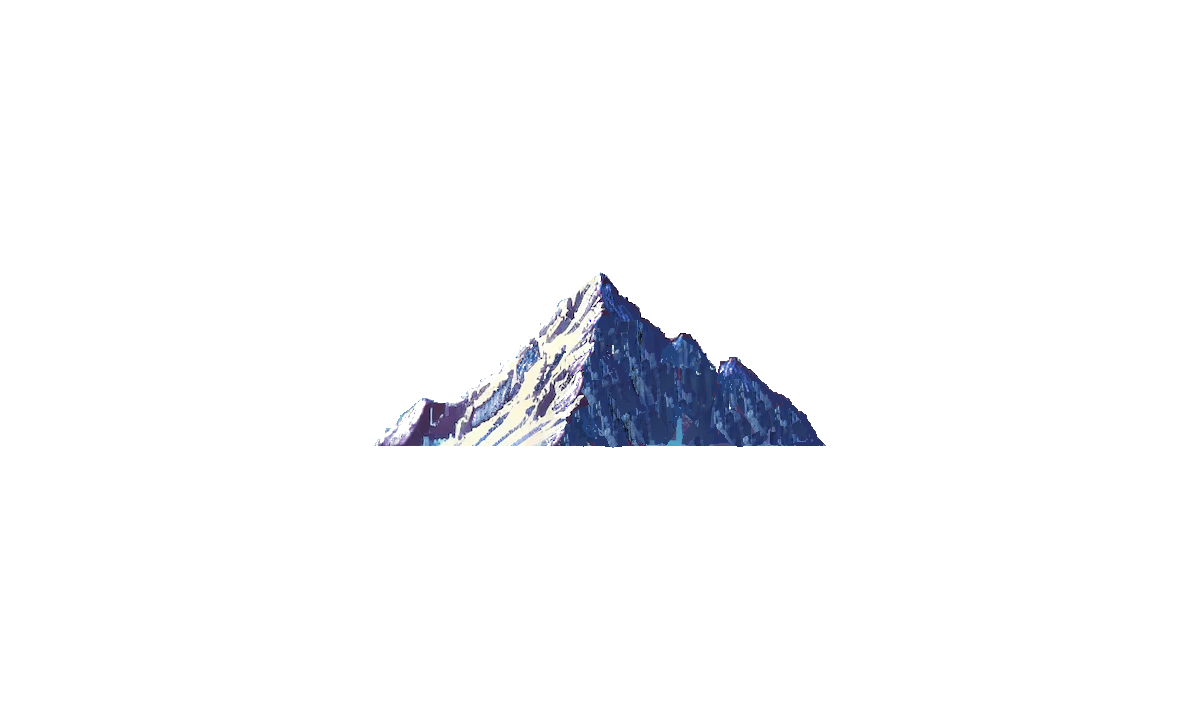
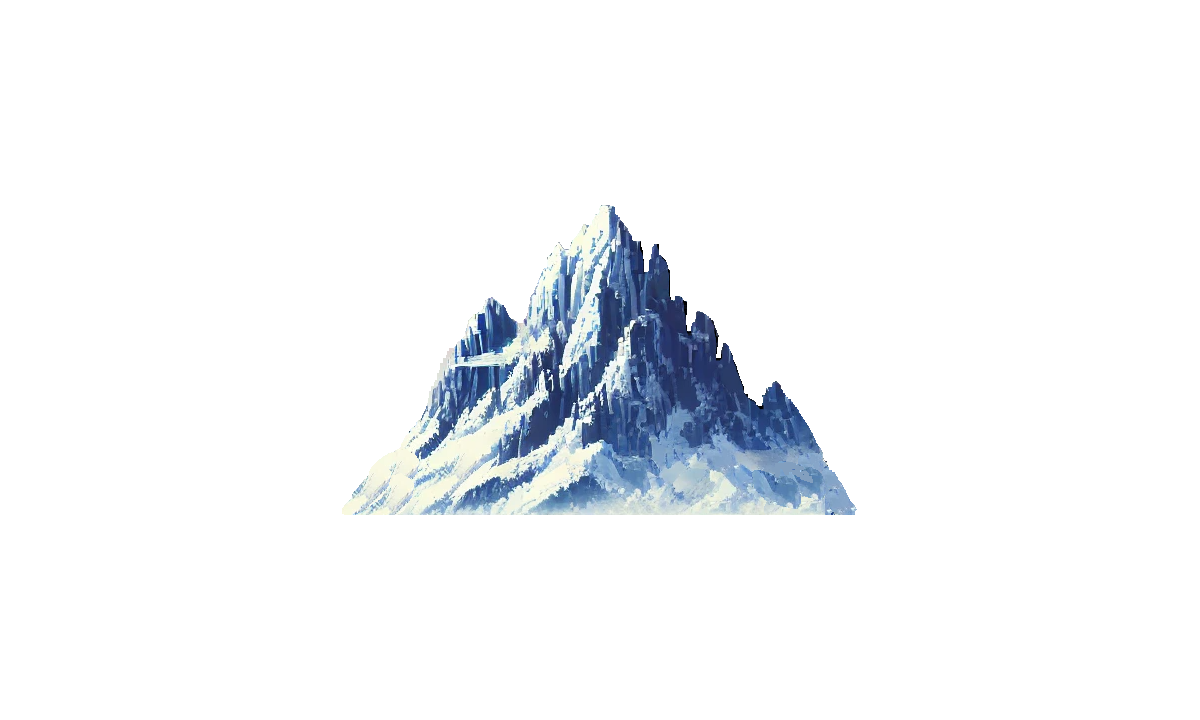
Coming back to e4124ab mechanic. Flickering still an issue. Zoom proportions fixed (a little bit)

Changed region(s): [[0.2775, 0.275, 0.7092, 0.7333]]

diff --git a/docs/Background.js b/docs/Background.js
@@ -14,20 +14,6 @@ function preloadBackgroundImages() {
     }
 }
 
-function smoothWrap(x, w, prev) {
-    // Standard wrap into [-w/2, w/2)
-    let wrapped = (((x + w/2) % w) + w) % w - w/2;
-    // Calculate difference relative to previous value
-    let diff = wrapped - prev;
-    // Adjust so that the jump is minimized:
-    if (diff > w/2) {
-        wrapped -= w;
-    } else if (diff < -w/2) {
-        wrapped += w;
-    }
-    return wrapped;
-}
-
 class Background {
     constructor() {
         this.bgImages = bgImages;
@@ -146,19 +132,19 @@ class Background {
             0.31, 0.3,
 
             //25 - 27
-            0.25, 0.24, 0.22,
+            0.13, 0.11, 0.09,
 
             //28-29
-            0.21, 0.2,
+            0.07, 0.06,
 
             //30-39
-            0.13, 0.12, 0.11, 0.1, 0.09, 0.08, 0.08, 0.07, 0.07, 0.06,
+            0.04, 0.038, 0.036, 0.034, 0.032, 0.03, 0.028, 0.026, 0.07, 0.023,
 
             //40-42
-            0.050, 0.047, 0.045,
+            0.02, 0.018, 0.016,
 
             //43-46
-            0.04, 0.04, 0.04, 0.04,
+            0.015, 0.015, 0.01, 0.01,
 
             //sky
             0
@@ -208,18 +194,18 @@ class Background {
             { x: 615, y: 420 }, // 40
             { x: 870, y: 415 }, // 41
             { x: 296, y: 470 }, // 42 ------ snow
-            { x: 600, y: 300 }, // 43
+            { x: 600, y: 360 }, // 43
             { x: 200, y: 350 }, // 44
-            { x: 870, y: 340 }, // 45
+            { x: 870, y: 280 }, // 45
             { x: 870, y: 450 }, // 46 ----snow
             { x: 870, y: 200 } // 47
         ];
 
-        this.speedZoomAdjustments = Array(this.bgImages.length).fill(-2);
+        this.speedZoomAdjustments = Array(this.bgImages.length).fill(1);
 
-        //--This is for continuos Tiling (Only for ocean and ground layers) --------
+        //-----This determines which layers tile continuously ----------
         this.alwaysTile = Array(this.bgImages.length).fill(false);
-        this.alwaysTile[0] = true;  // Layer 1 will always tile continuously.
+        this.alwaysTile[0] = true;
         this.alwaysTile[1] = true;
         this.alwaysTile[9] = true;
         this.alwaysTile[15] = true;
@@ -231,49 +217,39 @@ class Background {
         this.alwaysTile[38] = true;
         this.alwaysTile[41] = true;
         this.alwaysTile[45] = true;
-        //--------------------------------------------------------------------------
-
-
     }
-
 
     update(floorSpeed, zoom) {
         let scaleFactor = width / this.baseWidth;
-        // Ensure we have a prevXOffsets array; if not, initialize it.
-        if (!this.prevXOffsets) {
-            this.prevXOffsets = this.xOffsets.slice();
-        }
         for (let i = 0; i < this.bgImages.length; i++) {
-            // ----Compute the sizeScale based on zoom and this layer's factor.
+            // Compute the sizeScale based on zoom and this layer's sizeAdjustmentFactor.
             let sizeScale = 1 + (zoom - 1) * this.sizeAdjustmentFactors[i];
 
-            // ------Compute the extra speed adjustment factor.
+            // Compute the extra speed adjustment factor based on zoom and this layer's speedZoomAdjustment.
             let speedZoomFactor = 1 + this.speedZoomAdjustments[i] * (zoom - 1);
 
-            // ----Update the world xOffset without wrapping (using constant offset update).
+            // Update the xOffset with floorSpeed, the base speed multiplier, the image scaling, and our zoom factor.
             this.xOffsets[i] -= floorSpeed * this.speedMultipliers[i] * sizeScale * speedZoomFactor;
 
-            // ----Compute the base (unscaled) width.
+            // Compute the base (unscaled) width.
             let baseWidth_i = this.bgImages[i].width * scaleFactor;
-            // -----Compute the final drawn width.
+            // Compute the final drawn width after applying the scaling factor.
             let finalWidth = baseWidth_i * sizeScale;
 
-            //----- Use our smooth wrapping function instead of while loops.
-            this.xOffsets[i] = smoothWrap(this.xOffsets[i], finalWidth, this.prevXOffsets[i]);
-
-            // -----Store current offset as previous for the next frame.
-            this.prevXOffsets[i] = this.xOffsets[i];
+            // Wrap the offset so it stays within one copy of the final width.
+// Wrap the offset to be in [-finalWidth/2, finalWidth/2)
+            this.xOffsets[i] = (((this.xOffsets[i] + finalWidth/2) % finalWidth) + finalWidth) % finalWidth - finalWidth/2;
         }
     }
 
-    // ------Helper function for Y adjustment.------
+    // Helper function for Y adjustment.
     zoomParallax(factor, zoom) {
         // When zoom is 1, (1 - zoom) is 0. When zoom < 1 (zooming out),
         // this returns a positive value (the layer is drawn lower).
         return factor * (1 - zoom) * 100;
     }
 
-    // ------Helper function for size scaling.------
+    // Helper function for size scaling.
     sizeParallax(factor, zoom) {
         // When zoom is 1, no change (returns 1). When zoom < 1, returns a value less than 1.
         return 1 + (zoom - 1) * factor;
@@ -334,6 +310,4 @@ class Background {
             pop();
         }
     }
-
-
 }
